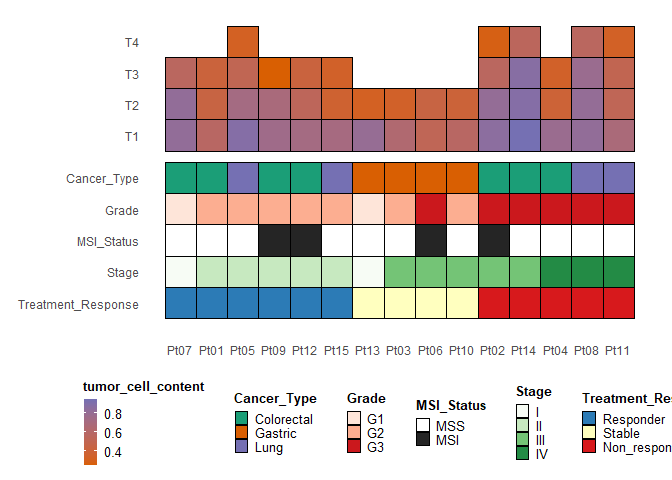
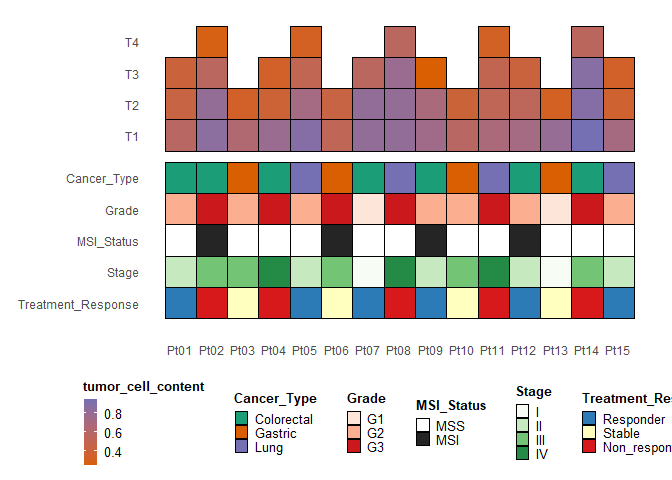
Fix readme

diff --git a/README.md b/README.md
@@ -178,10 +178,6 @@ mr_tileplot(region_data = example_regions,
             # for continuous region values you need to provide two colours for the gradient
             region_palette = c("#D95F02", "#7570B3"),
             annotation_palettes = annotation_palettes,
-            sort_by = c("Treatment_Response", "Stage"),
-            sort_levels = list(
-              Treatment_Response = c("Responder", "Stable", "Non_responder"),
-              Stage = c("I", "II", "III", "IV")),
             region_value = "tumor_cell_content",
             region_sort_by = "tumor_cell_content",
             region_sort_decreasing = TRUE,
